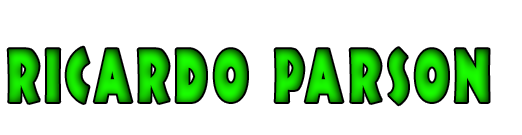
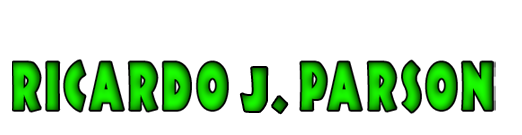
Corrected name

diff --git a/index.html b/index.html
@@ -15,7 +15,7 @@
 				</div>
 				<img src="Images/RJP Picture website.png" class="profile" onmouseover="this.src='Images/Profile Picture.png'" onmouseout="this.src='Images/RJP Picture website.png'">
 				</div>
-				<p class="textsmall">Hello everybody, my name is Ricardo Parson. I am currently a student at Thomas A. Edison CTE High School. I am interested in perusing a career in coding. I am also a digital artist, digital editor and video editor. My business email is <a href="mailto:ricardojparson@gmail.com" target="_blank">ricardojparson@gmail.com</a>. If certain elements in the page fail to load, wait 5 minutes and refresh. I update this site periodically.</p>		
+				<p class="textsmall">Hello everybody, my name is Ricardo J. Parson. I am currently a student at Thomas A. Edison CTE High School. I am interested in perusing a career in coding. I am also a digital artist, digital editor and video editor. My business email is <a href="mailto:ricardojparson@gmail.com" target="_blank">ricardojparson@gmail.com</a>. If certain elements in the page fail to load, wait 5 minutes and refresh. I update this site periodically.</p>		
 		</div>
 		<div class="nav">
   <button id="button1">Web Development</button>
